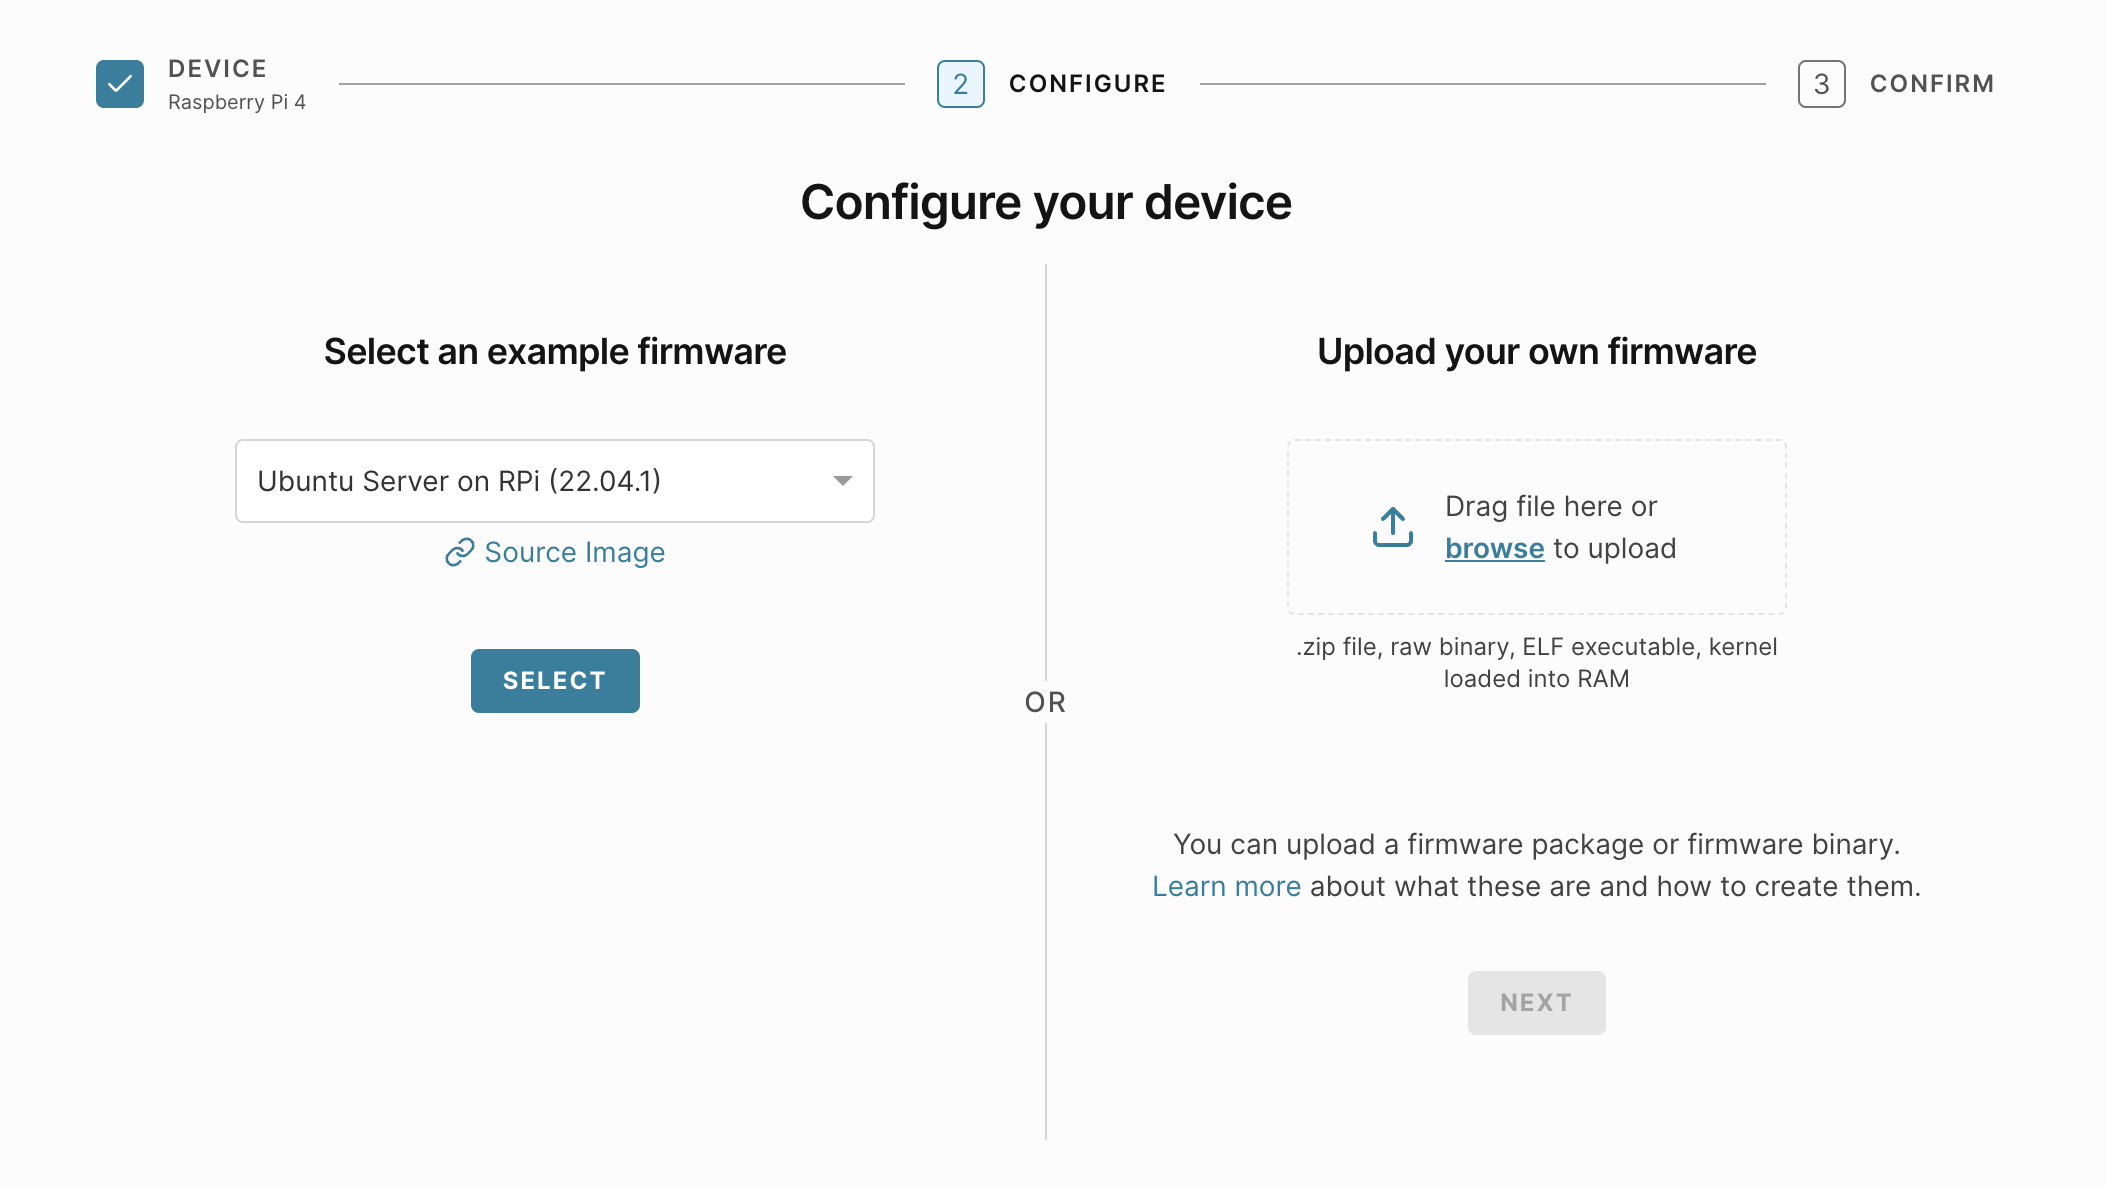
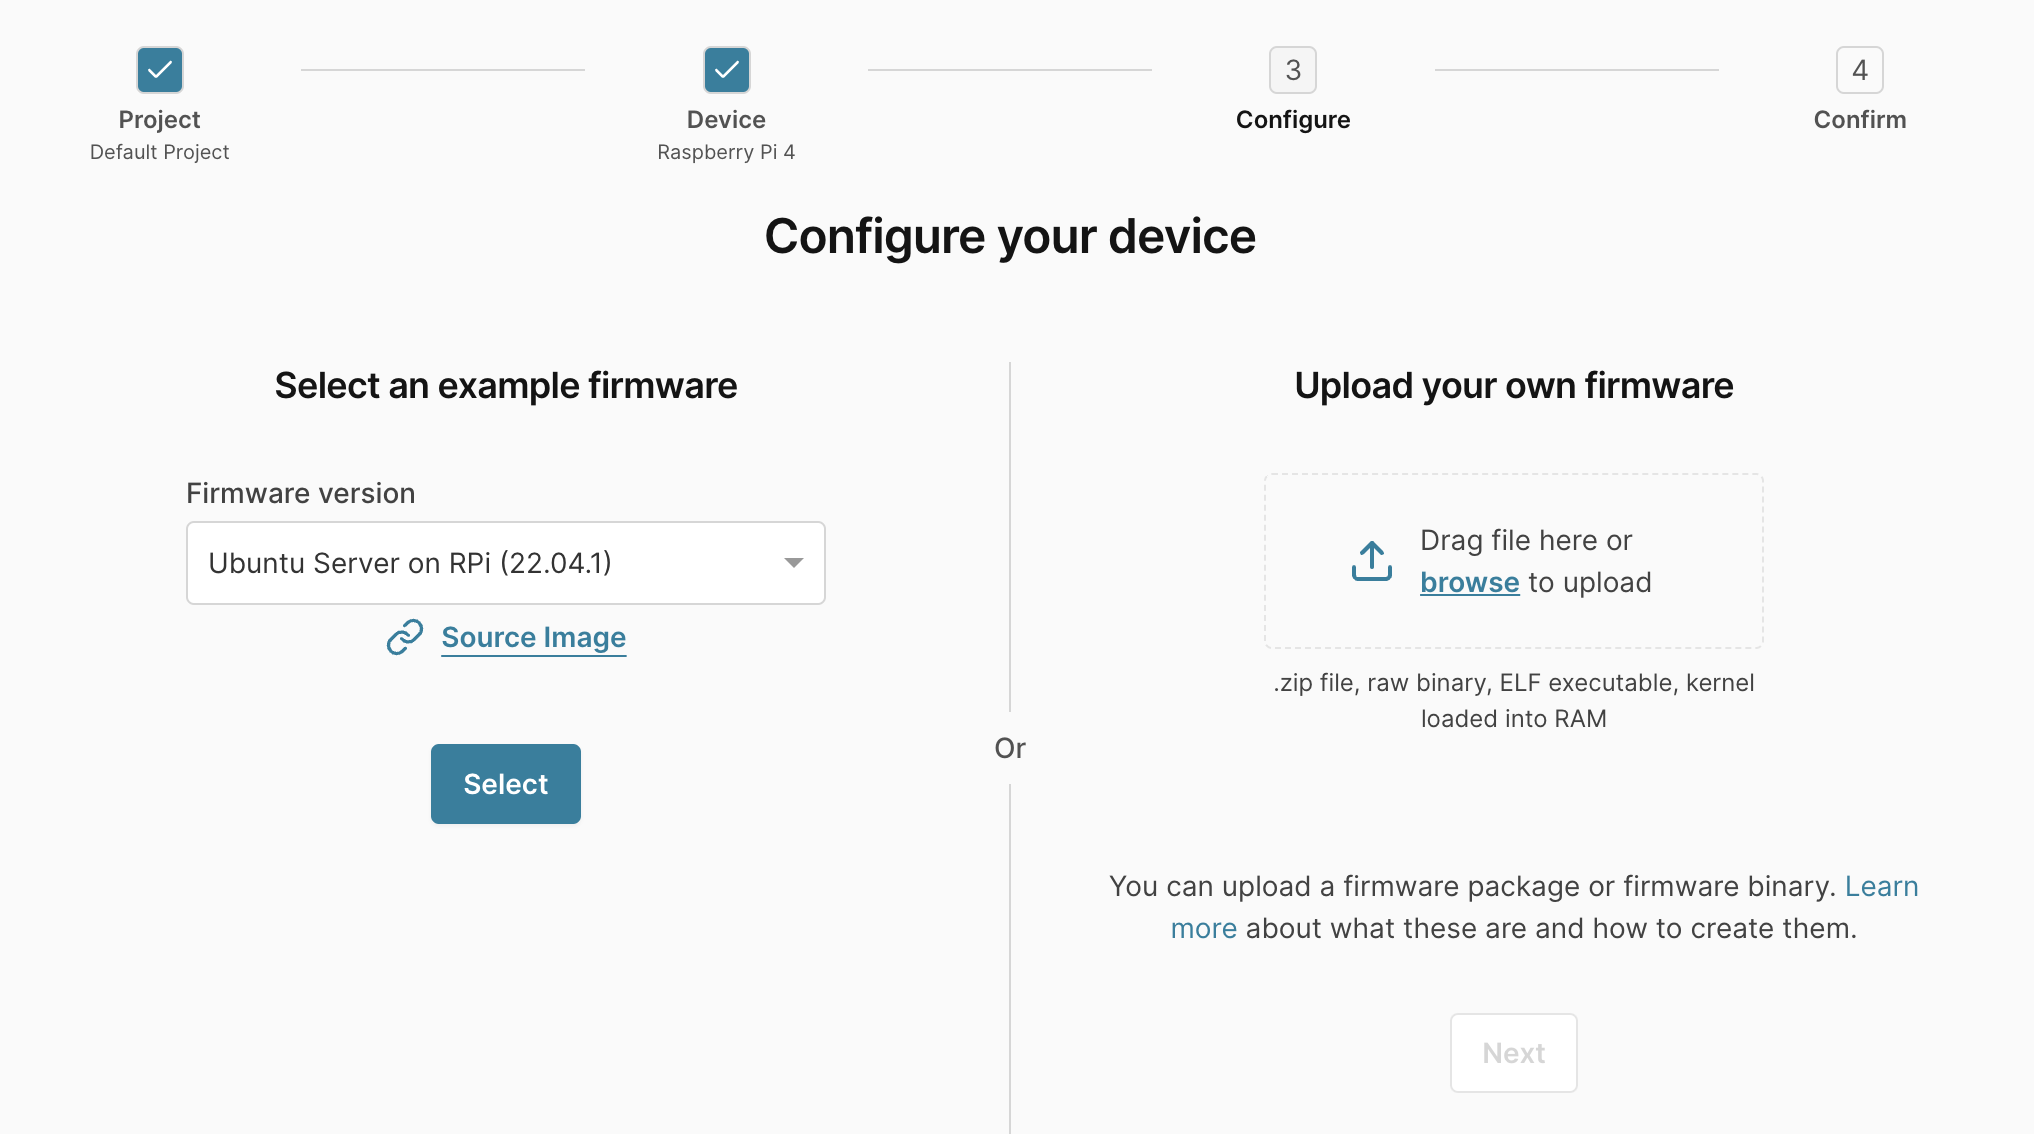
Update AWS IoT Greengrass on AVH Learning Path

diff --git a/content/learning-paths/embedded-systems/avh_greengrass/_index.md b/content/learning-paths/embedded-systems/avh_greengrass/_index.md
@@ -6,13 +6,13 @@ minutes_to_complete: 30
 who_is_this_for: This is an introductory topic for embedded software developers interested in AWS IoT Greengrass.
 
 learning_objectives: 
-    - Start a Raspberry Pi Arm Virtual Hardware instance
-    - Deploy pre-built AWS IoT Greengrass components on Arm Virtual Hardware
+    - Start a Raspberry Pi Arm Virtual Hardware instance.
+    - Deploy pre-built AWS IoT Greengrass components on Arm Virtual Hardware.
 
 prerequisites:
-    - An Amazon AWS account
-    - An Arm Virtual Hardware account
-    - Some familiarity with embedded Linux
+    - An Amazon AWS account.
+    - An Arm Virtual Hardware account.
+    - Some familiarity with embedded Linux.
 
 author_primary: Michael Hall
 

diff --git a/content/learning-paths/embedded-systems/avh_greengrass/2setup.md b/content/learning-paths/embedded-systems/avh_greengrass/2setup.md
@@ -22,9 +22,11 @@ Click the `Create an AWS Account` button to start creating a new account.
 
 ## Create a Device
 
-Log in to AVH to begin.
+Log in to [AVH](https://app.avh.arm.com/) to begin.
 
-From the AVH dashboard, click the `Create Device` button. You will be presented with a list of devices to choose from. 
+From the AVH dashboard, click the `Create Device` button. Next, select the project to add the device to. 
+
+You will be presented with a list of devices to choose from. 
 
 Select Raspberry Pi 4 from the list of devices and proceed to the configure dialog. 
 
